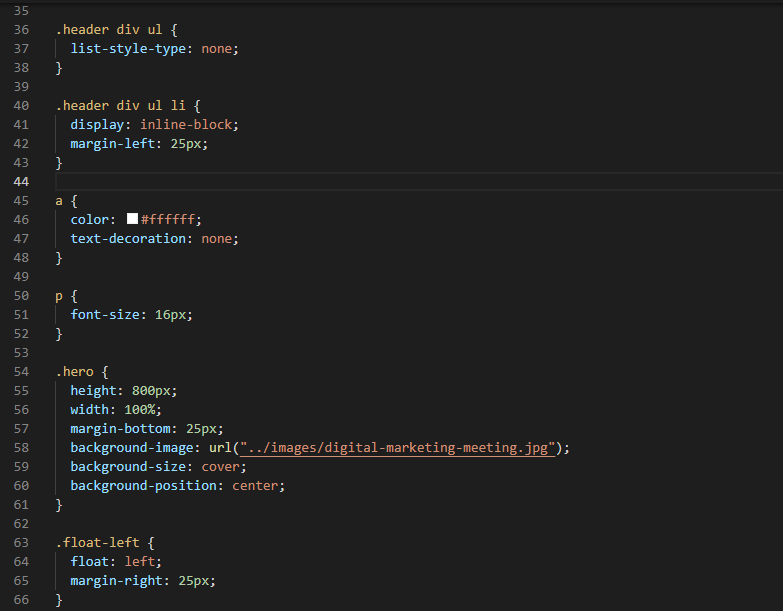
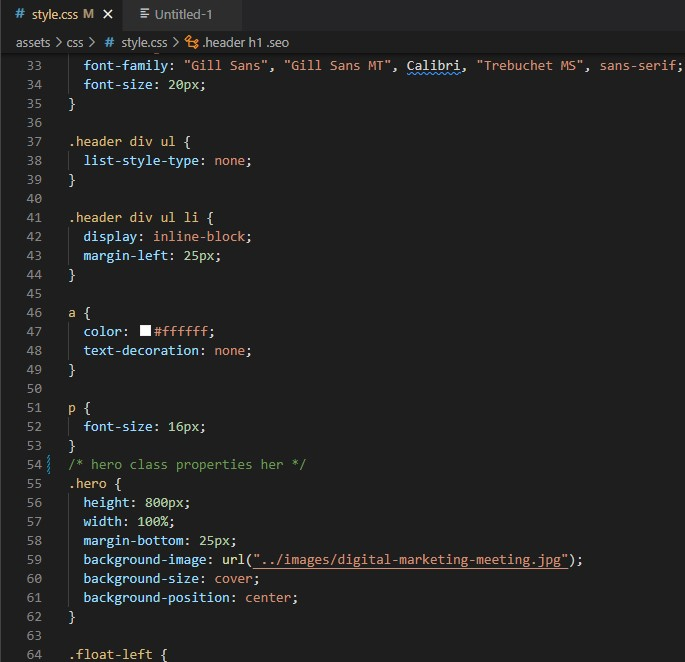
comments added to css and readme folder updated with comments and images

Changed region(s): [[0.0, 0.0, 0.8584, 1.0], [0.7051, 0.0933, 1.0, 0.1244], [0.4292, 0.0933, 0.6745, 0.1244]]

diff --git a/assets/css/style.css b/assets/css/style.css
@@ -8,6 +8,7 @@ body {
   background-color: #d9dcd6;
 }
 
+/* header properties here */
 .header {
   padding: 20px;
   font-family: "Trebuchet MS", "Lucida Sans Unicode", "Lucida Grande",
@@ -50,7 +51,7 @@ a {
 p {
   font-size: 16px;
 }
-
+/* hero class properties her */
 .hero {
   height: 800px;
   width: 100%;
@@ -75,7 +76,7 @@ p {
   display: inline-block;
   margin-left: 20px;
 }
-
+/* benefit properties here */
 .benefits {
   margin-right: 20px;
   padding: 20px;
@@ -87,6 +88,7 @@ p {
   background-color: #2589bd;
 }
 
+/* .benefit-article properties */
 .benefit-article {
   margin-bottom: 32px;
   color: #ffffff;
@@ -103,6 +105,7 @@ p {
   max-width: 150px;
 }
 
+/* main class properties here */
 .search-engine-optimization,
 .online-reputation-management,
 .social-media-marketing {
@@ -114,6 +117,7 @@ p {
   color: #ffffff;
 }
 
+/* main class img properties here */
 .search-engine-optimization img,
 .online-reputation-management img,
 .social-media-marketing img {
@@ -127,6 +131,7 @@ p {
   font-size: 36px;
 }
 
+/* footer properties here */
 .footer {
   padding: 30px;
   clear: both;

diff --git a/index.html b/index.html
@@ -89,6 +89,7 @@
         </p>
       </article>
     </main>
+    
     <!--<aside> starts here (has 3 articles)-->
     <aside class="benefits">
       <article class="benefit-article">

diff --git a/README.md b/README.md
@@ -8,17 +8,54 @@ Refactor a marketing agency to use semantic html
 -git
 -html
 -css
+-snipping tool (for screenshots)
 
-# index.html before refactor(screenshots)(./assets/images/)
+# index.html before refactor(screenshots)
 
-# index.html after refactor
+![html-before-screenshot](./assets/images/html-before-screenshot.jpg)
+![html-before-screenshot](./assets/images/html-before-screenshot1.jpg)
+![html-before-screenshot](./assets/images/html-before-screenshot2.jpg)
+![html-before-screenshot3](./assets/images/html-before-screenshot.jpg)
 
-# style.css before refactor(./assets/images/)
+# index.html after refactor (screenshots)
 
-# style.css after refactor(./assets/images/)
+![html-after-screenshot](./assets/images/html-after-screenshot.jpg)
+![html-after-screenshot](./assets/images/html-after-screenshot1.jpg)
+![html-after-screenshot](./assets/images/html-after-screenshot2.jpg)
+![html-after-screenshot](./assets/images/html-after-screenshot3.jpg)
+![html-after-screenshot](./assets/images/html-after-screenshot4.jpg)
 
-![css-screenshot2](./assets/images/css-screenshot2.jpg)
+# style.css before refactor (screenshots)
 
-# Website before refactor
+![css-before-screenshot](./assets/images/css-before-screenshot.jpg)
+![css-before-screenshot](./assets/images/css-before-screenshot1.jpg)
+![css-before-screenshot](./assets/images/css-before-screenshot2.jpg)
+![css-before-screenshot](./assets/images/css-before-screenshot3.jpg)
+![css-before-screenshot](./assets/images/css-before-screenshot4.jpg)
+![css-before-screenshot](./assets/images/css-before-screenshot5.jpg)
+![css-before-screenshot](./assets/images/css-before-screenshot6.jpg)
+![css-before-screenshot](./assets/images/css-before-screenshot7.jpg)
 
-# Website after refactor
+# style.css after refactor (screenshots)
+
+![css-screenshot](./assets/images/css-screenshot.jpg)
+![css-screenshot](./assets/images/css-screenshot2.jpg)
+![css-screenshot](./assets/images/css-screenshot3.jpg)
+![css-screenshot](./assets/images/css-screenshot4.jpg)
+![css-screenshot](./assets/images/css-screenshot5.jpg)
+
+# Website before refactor (screenshots)
+
+![website-before-screenshot](./assets/images/website-before-screenshot.jpg)
+![website-before-screenshot](./assets/images/website-before-screenshot1.jpg)
+![website-before-screenshot](./assets/images/website-before-screenshot2.jpg)
+
+# Website after refactor (screenshots)
+
+![website-screenshot](./assets/images/website-screenshot.jpg)
+![website-screenshot](./assets/images/website-screenshot2.jpg)
+![website-screenshot](./assets/images/website-screenshot3.jpg)
+
+# About me
+
+Well, I am a Bootcamp student, soon to be software developer. This is my first website refactor using semantic html.
